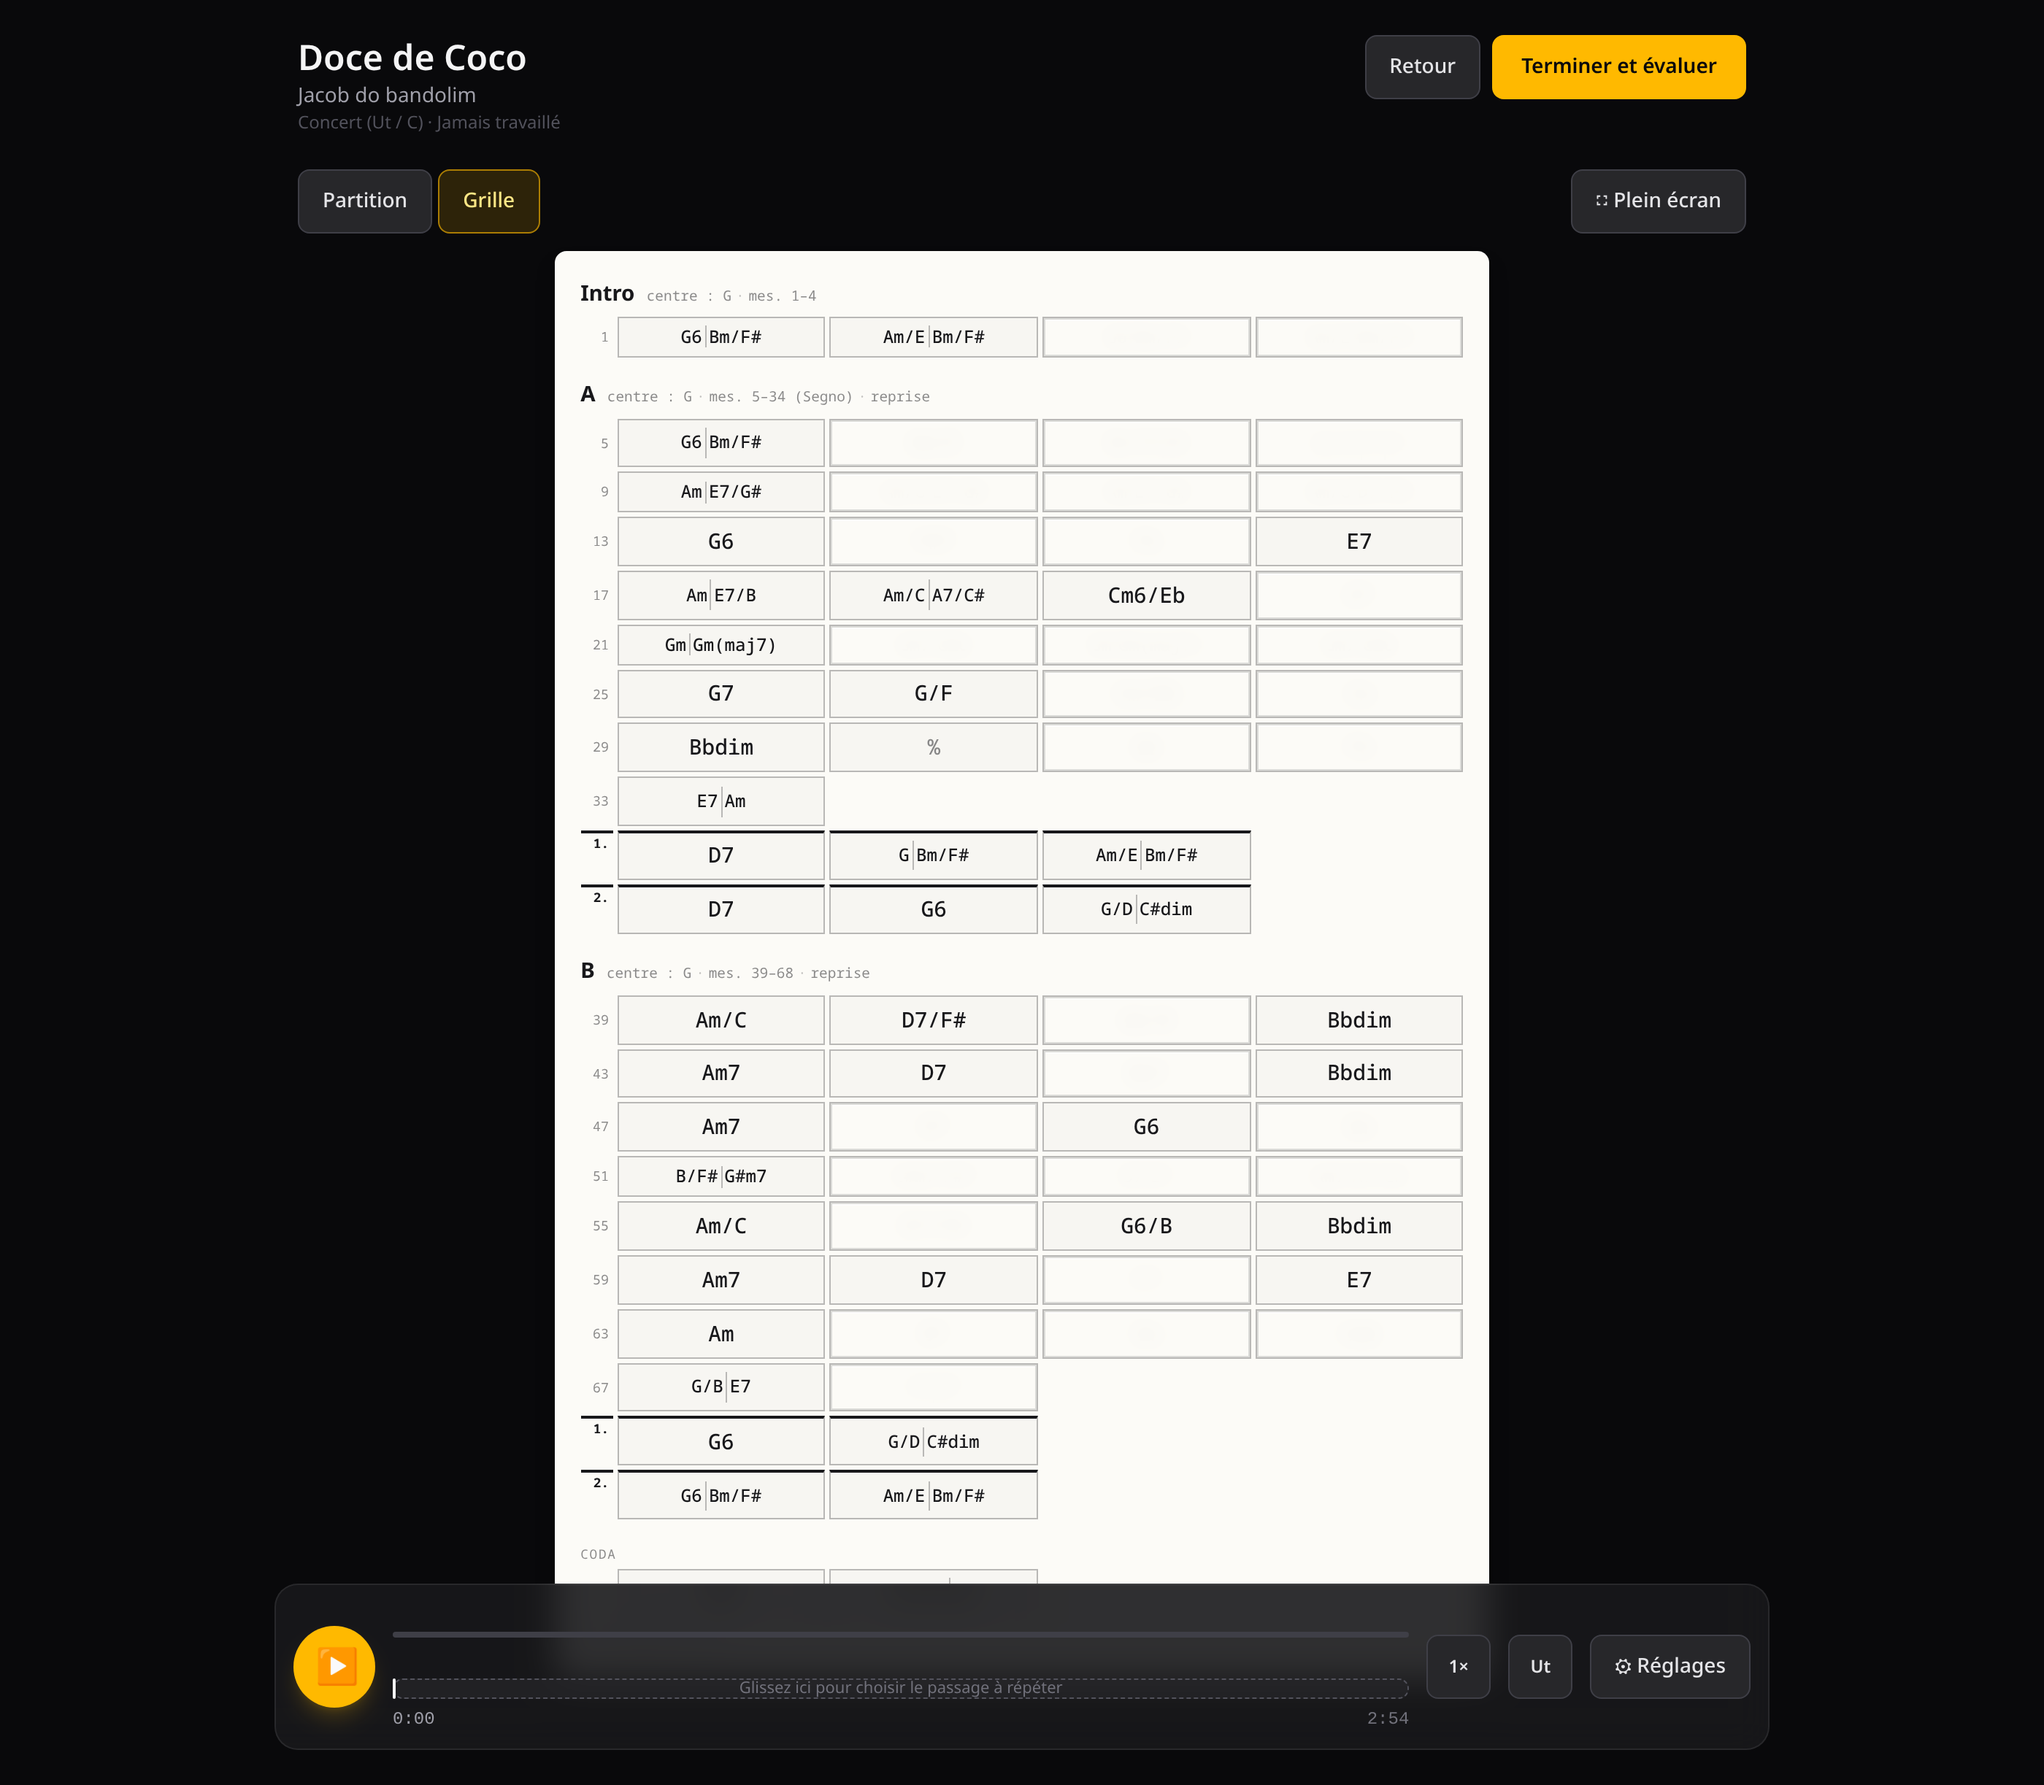
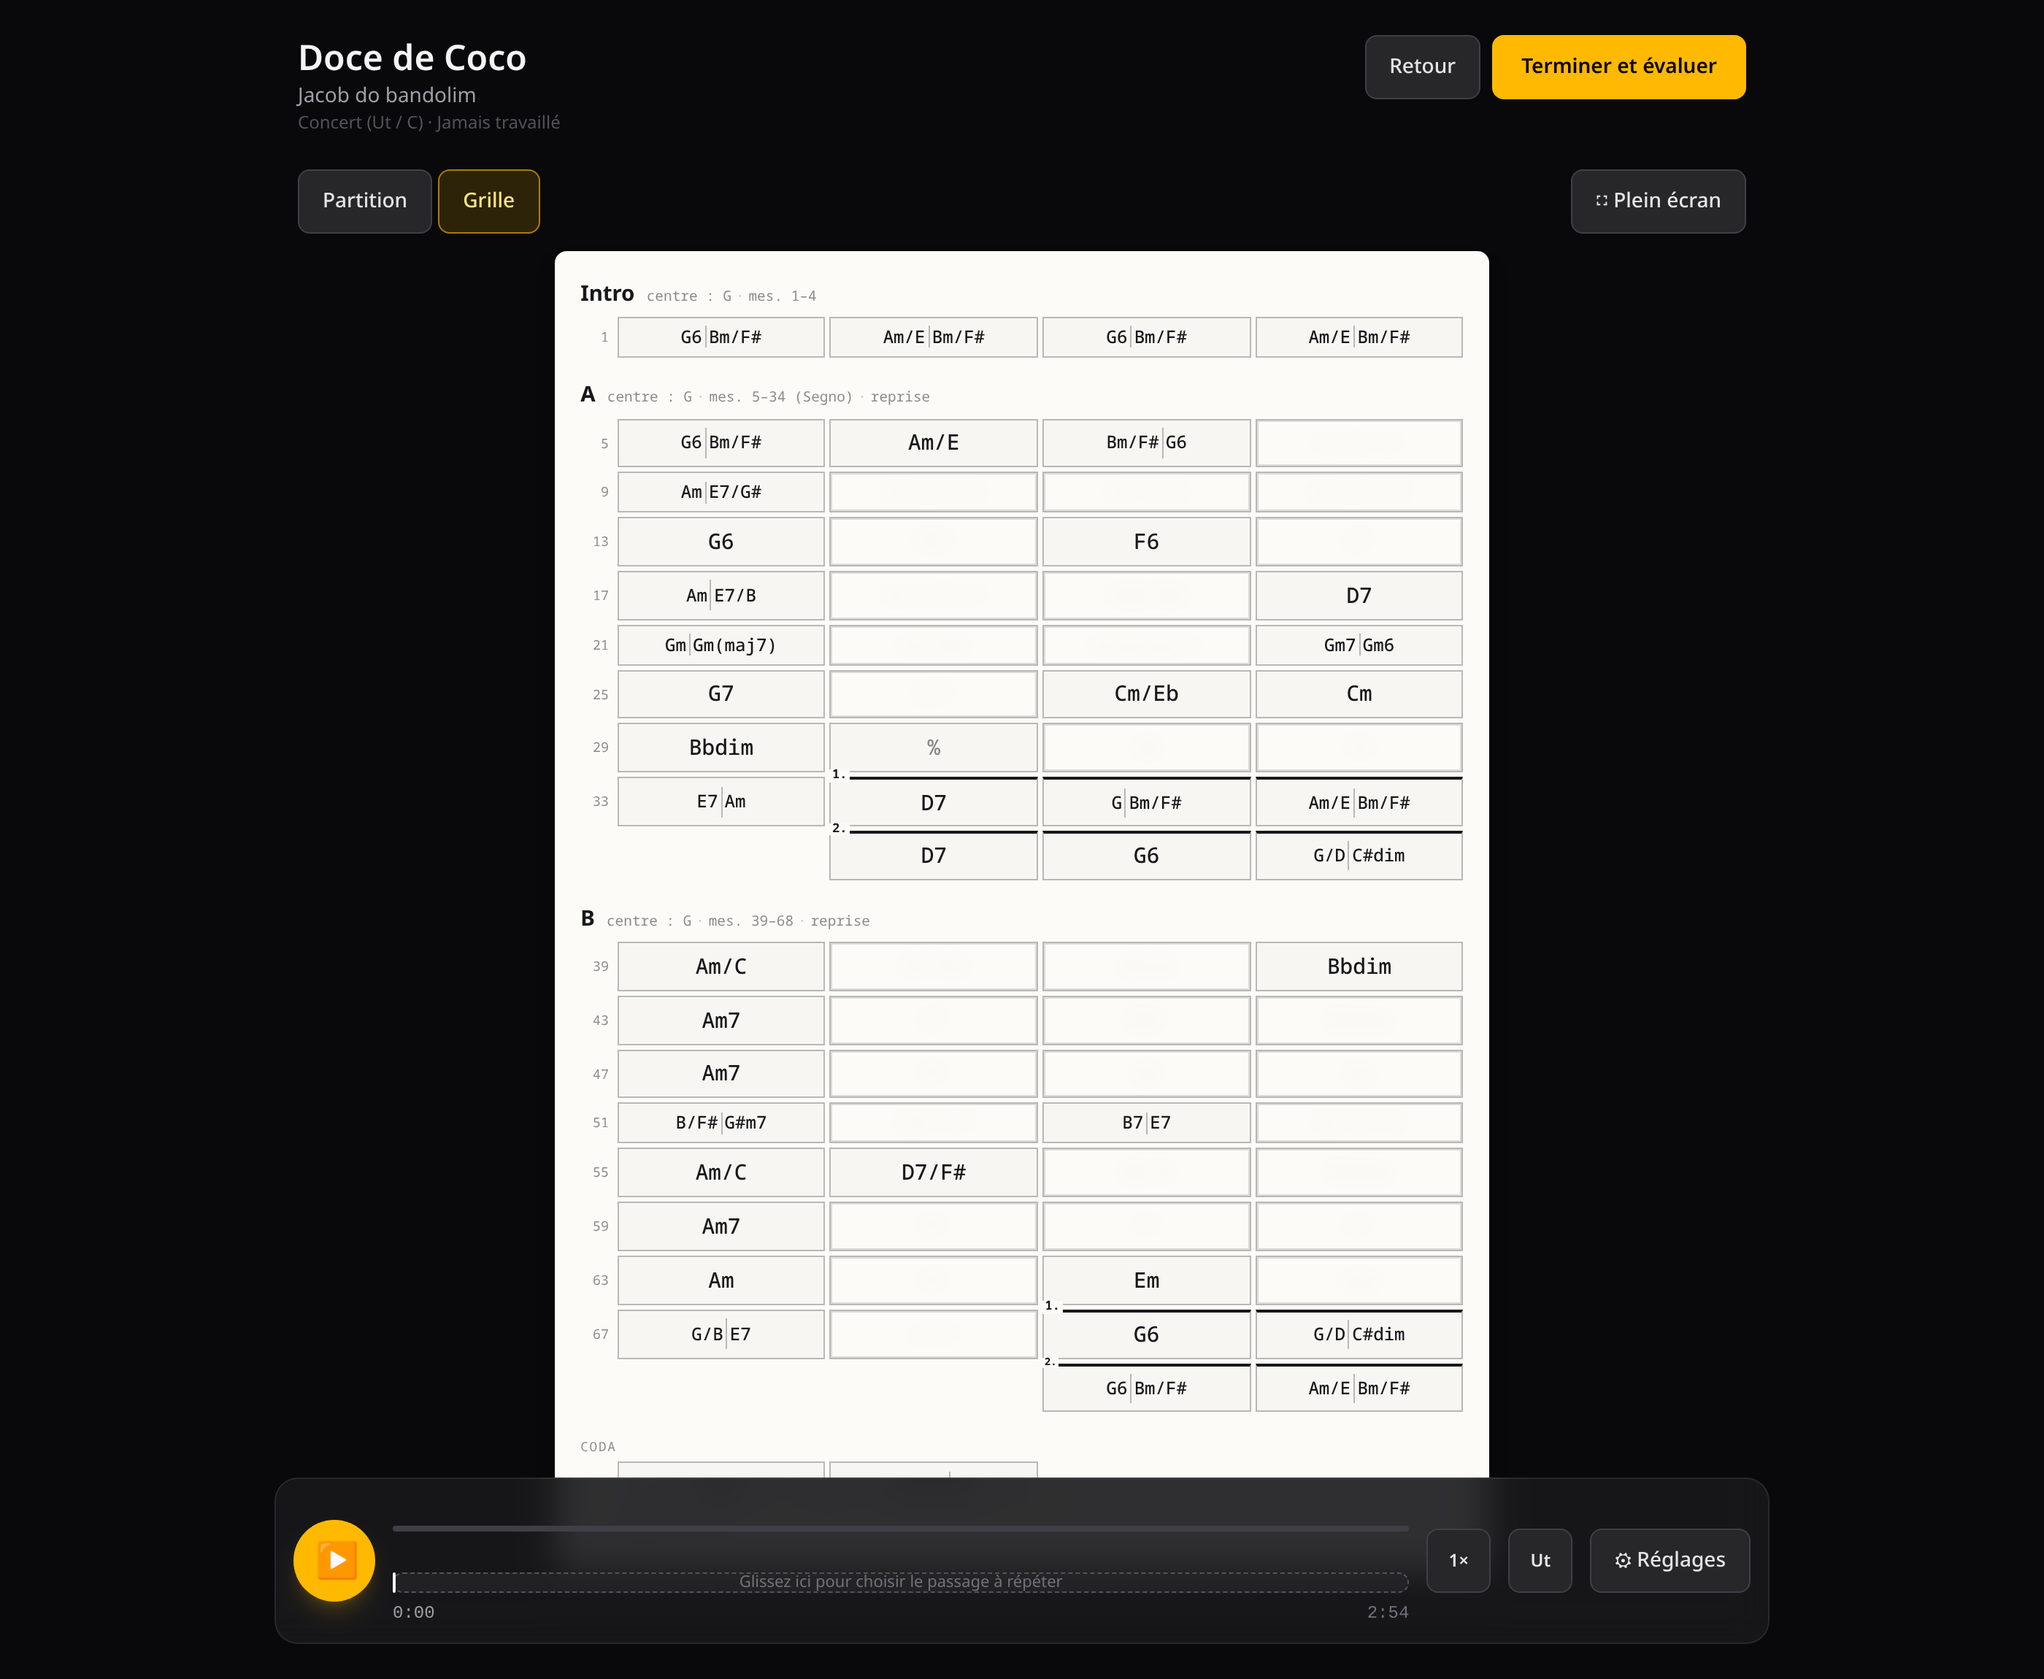
Grille : fins en crochet inline, mesures répétées en %
- « % » (convention jazz) pour toute mesure vide OU identique à la
  précédente, dans la séquence comme dans les codas — plus de blanc.
- Fins de partie : la 1re fin prolonge la dernière ligne au lieu de
  repartir à la ligne (image de référence) ; la 2e fin est une rangée
  courte alignée sous la 1re. Crochet = trait supérieur épais + « 1. » /
  « 2. » sur la première mesure.
- Deux fins identiques ne sont plus doublées : écrites une seule fois,
  sans crochet ni numéro (ce ne sont que les mesures de conclusion).

Captures docs/grille/ régénérées.

Claude-Session: https://claude.ai/code/session_01NoTvLeYHY6hHoDGhSedk76

diff --git a/web/src/grille.ts b/web/src/grille.ts
@@ -59,14 +59,43 @@ function selectMasked(slots: Slot[], level: number, seed: string): Set<number> {
   return new Set(ranked.slice(0, target).map((entry) => entry.ordinal));
 }
 
+/** Deux cellules portent-elles exactement les mêmes accords ? */
+function sameCells(a: GrilleCell, b: GrilleCell): boolean {
+  return a.length === b.length && a.every((chord, i) => chord === b[i]);
+}
+
+/** Deux suites de mesures sont-elles identiques ? */
+function sameSequence(a: GrilleCell[], b: GrilleCell[]): boolean {
+  return a.length === b.length && a.every((cell, i) => sameCells(cell, b[i] ?? []));
+}
+
+/**
+ * Remplace par une mesure « tenue » (`[]`) toute mesure vide *ou* identique à
+ * la précédente : c'est le signe `%` de la convention jazz, et non un accord
+ * réécrit à l'identique. Le masquage et le rendu partent tous deux de là.
+ */
+function normalizeSequence(seq: GrilleCell[]): GrilleCell[] {
+  const out: GrilleCell[] = [];
+  let previous: GrilleCell | null = null;
+  for (const cell of seq) {
+    if (cell.length === 0 || (previous && sameCells(cell, previous))) {
+      out.push([]);
+    } else {
+      out.push(cell);
+      previous = cell;
+    }
+  }
+  return out;
+}
+
 /** Rang global (0-based) de chaque cellule masquable d'une grille. */
 function buildSlots(grille: Grille): Slot[] {
   const slots: Slot[] = [];
   let ordinal = 0;
   for (const part of grille.parts) {
     let firstInPart = true;
-    part.sequence.forEach((cell, index) => {
-      if (cell.length === 0) return; // « on tient » : rien à masquer
+    normalizeSequence(part.sequence).forEach((cell, index) => {
+      if (cell.length === 0) return; // « % » : rien à masquer
       slots.push({
         ordinal: ordinal++,
         isPartStart: firstInPart,
@@ -192,24 +221,64 @@ export class GrilleView {
 
     const grid = el('div', { class: 'grille-grid' });
 
+    // Curseur de ligne : `col` = colonne courante (0 à 3) après celle des
+    // numéros de mesure. On remplit les lignes sans jamais revenir à la ligne
+    // tant qu'il reste des cases : les fins de partie prolongent la séquence.
+    let col = 0;
+    const place = (node: HTMLElement, label = ''): void => {
+      if (col === 0) grid.appendChild(el('span', { class: 'grille-barno' }, label));
+      grid.appendChild(node);
+      col = (col + 1) % BARS_PER_LINE;
+    };
+    const closeRow = (): void => {
+      while (col !== 0) place(el('div', { class: 'chord-cell pad' }));
+    };
+
     if (part.transition_in && part.transition_in.length > 0) {
       pushLabeledRow(grid, 'transition', part.transition_in);
     }
 
+    const seq = normalizeSequence(part.sequence);
     let ordinal = startOrdinal;
-    for (let i = 0; i < part.sequence.length; i += BARS_PER_LINE) {
-      const slice = part.sequence.slice(i, i + BARS_PER_LINE);
-      grid.appendChild(el('span', { class: 'grille-barno' }, barLabel(part, i)));
-      slice.forEach((cell) => {
-        grid.appendChild(this.measureCell(cell, ordinal));
-        if (cell.length > 0) ordinal += 1;
+    seq.forEach((cell, i) => {
+      place(this.measureCell(cell, ordinal), barLabel(part, i));
+      if (cell.length > 0) ordinal += 1;
+    });
+
+    // Fins de partie. Deux fins identiques ne sont que les mesures de
+    // conclusion : on les écrit une seule fois, sans crochet ni numéro.
+    const e1 = part.endings?.['1'];
+    const e2 = part.endings?.['2'];
+    const split = Boolean(e1 && e2 && !sameSequence(e1, e2));
+    const inlineEnd = split ? e1 : (e1 ?? e2);
+    const endStartCol = col;
+
+    if (inlineEnd && inlineEnd.length > 0) {
+      normalizeSequence(inlineEnd).forEach((cell, k) => {
+        place(endingCell(cell, split, split && k === 0 ? '1.' : ''));
       });
-      padLine(grid, slice.length);
+    }
+    closeRow();
+
+    if (split && e2 && e2.length > 0) {
+      // 2e fin : rangée courte, alignée sous la 1re fin quand elle y tient.
+      const alignCol =
+        endStartCol + e2.length <= BARS_PER_LINE ? endStartCol : 0;
+      grid.appendChild(el('span', { class: 'grille-barno' }, ''));
+      for (let p = 0; p < alignCol; p += 1) {
+        grid.appendChild(el('div', { class: 'chord-cell pad' }));
+      }
+      normalizeSequence(e2).forEach((cell, k) => {
+        grid.appendChild(endingCell(cell, true, k === 0 ? '2.' : ''));
+      });
+      for (let p = alignCol + e2.length; p < BARS_PER_LINE; p += 1) {
+        grid.appendChild(el('div', { class: 'chord-cell pad' }));
+      }
     }
 
-    if (part.endings?.['1']) pushEnding(grid, '1.', part.endings['1']);
-    if (part.endings?.['2']) pushEnding(grid, '2.', part.endings['2']);
-    if (part.coda && part.coda.length > 0) pushLabeledRow(grid, 'coda', part.coda);
+    if (part.coda && part.coda.length > 0) {
+      pushLabeledRow(grid, 'coda', part.coda);
+    }
 
     section.appendChild(grid);
     parent.appendChild(section);
@@ -331,43 +400,36 @@ function chordCell(chords: string[], variant?: 'ending'): HTMLElement {
   return el('div', { class: cls }, ...nodes);
 }
 
-/** Cellule « on tient » : le signe de répétition de mesure (%). */
+/** Cellule « % » : mesure tenue ou répétée (convention jazz). */
 function simileCell(variant?: 'ending'): HTMLElement {
   const cls = 'chord-cell simile' + (variant === 'ending' ? ' chord-cell--ending' : '');
   return el('div', { class: cls }, el('span', { class: 'ch' }, '%'));
 }
 
-/** Ajoute des cellules vides jusqu'à compléter une ligne de quatre mesures. */
-function padLine(grid: HTMLElement, filled: number): void {
-  for (let pad = filled; pad < BARS_PER_LINE; pad += 1) {
-    grid.appendChild(el('div', { class: 'chord-cell pad' }));
-  }
-}
-
-/** Rangée de fin (1re / 2e) : un crochet numéroté au-dessus des mesures. */
-function pushEnding(grid: HTMLElement, tag: string, seq: GrilleCell[]): void {
-  for (let i = 0; i < seq.length; i += BARS_PER_LINE) {
-    const slice = seq.slice(i, i + BARS_PER_LINE);
-    grid.appendChild(
-      el('span', { class: 'grille-barno grille-end-tag' }, i === 0 ? tag : ''),
-    );
-    slice.forEach((cell) =>
-      grid.appendChild(cell.length === 0 ? simileCell('ending') : chordCell(cell, 'ending')),
-    );
-    padLine(grid, slice.length);
-  }
+/**
+ * Cellule d'une mesure de fin de partie. `bracketed` trace le crochet (trait
+ * supérieur) ; `label` (« 1. » / « 2. ») n'est posé que sur la première.
+ */
+function endingCell(chords: GrilleCell, bracketed: boolean, label: string): HTMLElement {
+  const variant = bracketed ? 'ending' : undefined;
+  const cell =
+    chords.length === 0 ? simileCell(variant) : chordCell(chords, variant);
+  if (label) cell.appendChild(el('span', { class: 'grille-end-label' }, label));
+  return cell;
 }
 
 /** Rangée annexe (coda, transition) : un libellé pleine largeur puis les mesures. */
 function pushLabeledRow(grid: HTMLElement, label: string, seq: GrilleCell[]): void {
   grid.appendChild(el('div', { class: 'grille-row-label' }, label));
-  for (let i = 0; i < seq.length; i += BARS_PER_LINE) {
-    const slice = seq.slice(i, i + BARS_PER_LINE);
-    grid.appendChild(el('span', { class: 'grille-barno' }, ''));
-    slice.forEach((cell) =>
-      grid.appendChild(cell.length === 0 ? simileCell() : chordCell(cell)),
-    );
-    padLine(grid, slice.length);
+  let col = 0;
+  for (const cell of normalizeSequence(seq)) {
+    if (col === 0) grid.appendChild(el('span', { class: 'grille-barno' }, ''));
+    grid.appendChild(cell.length === 0 ? simileCell() : chordCell(cell));
+    col = (col + 1) % BARS_PER_LINE;
+  }
+  while (col !== 0) {
+    grid.appendChild(el('div', { class: 'chord-cell pad' }));
+    col = (col + 1) % BARS_PER_LINE;
   }
 }
 

diff --git a/web/src/style.css b/web/src/style.css
@@ -226,18 +226,23 @@ body {
   background: transparent;
 }
 
-/* Fin de partie : crochet numéroté au-dessus des mesures concernées. Le trait
-   supérieur (numéro + cases) forme le crochet. */
+/* Fin de partie : crochet (trait supérieur épais) au-dessus des mesures
+   concernées, numéro « 1. » / « 2. » posé sur la première. */
 .chord-cell--ending {
+  overflow: visible;
   border-top: 2px solid var(--grille-ink);
 }
-.grille-end-tag {
-  align-items: flex-start;
-  padding-top: 1px;
-  border-top: 2px solid var(--grille-ink);
+.grille-end-label {
+  position: absolute;
+  top: -0.85em;
+  left: -1px;
+  padding: 0 0.2em;
+  background: rgb(var(--mask-paper));
   color: var(--grille-ink);
+  font-family: ui-monospace, SFMono-Regular, Menlo, monospace;
   font-weight: 700;
-  font-size: 0.6em;
+  font-size: 0.58em;
+  line-height: 1;
 }
 
 /* Libellé pleine largeur d'une rangée annexe (coda, transition). */
